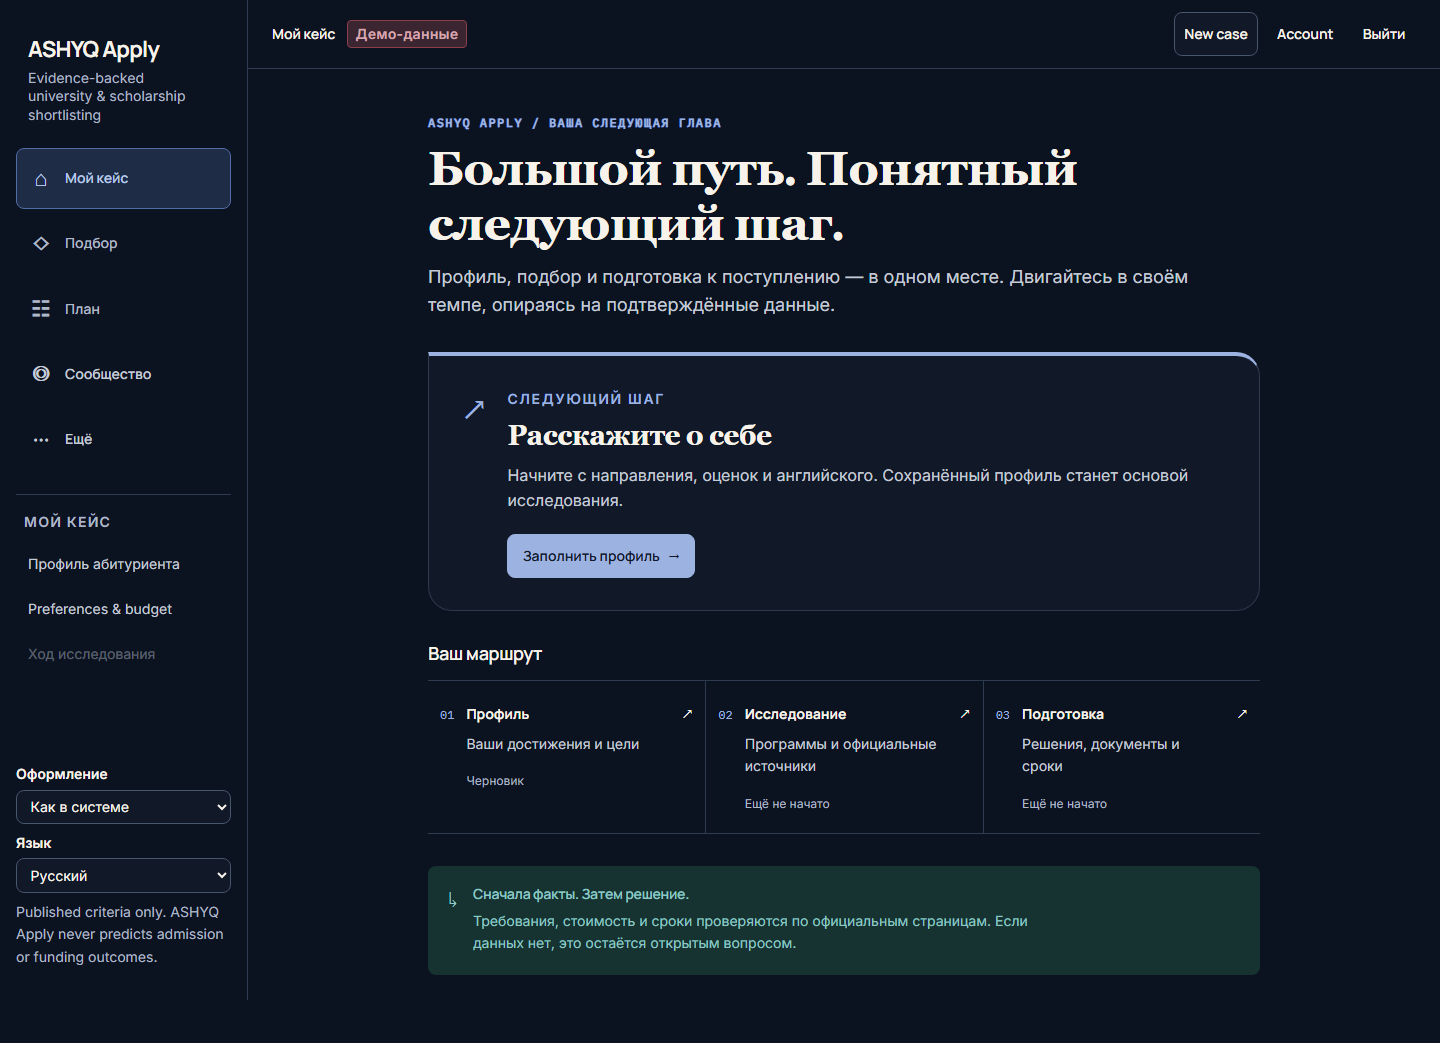
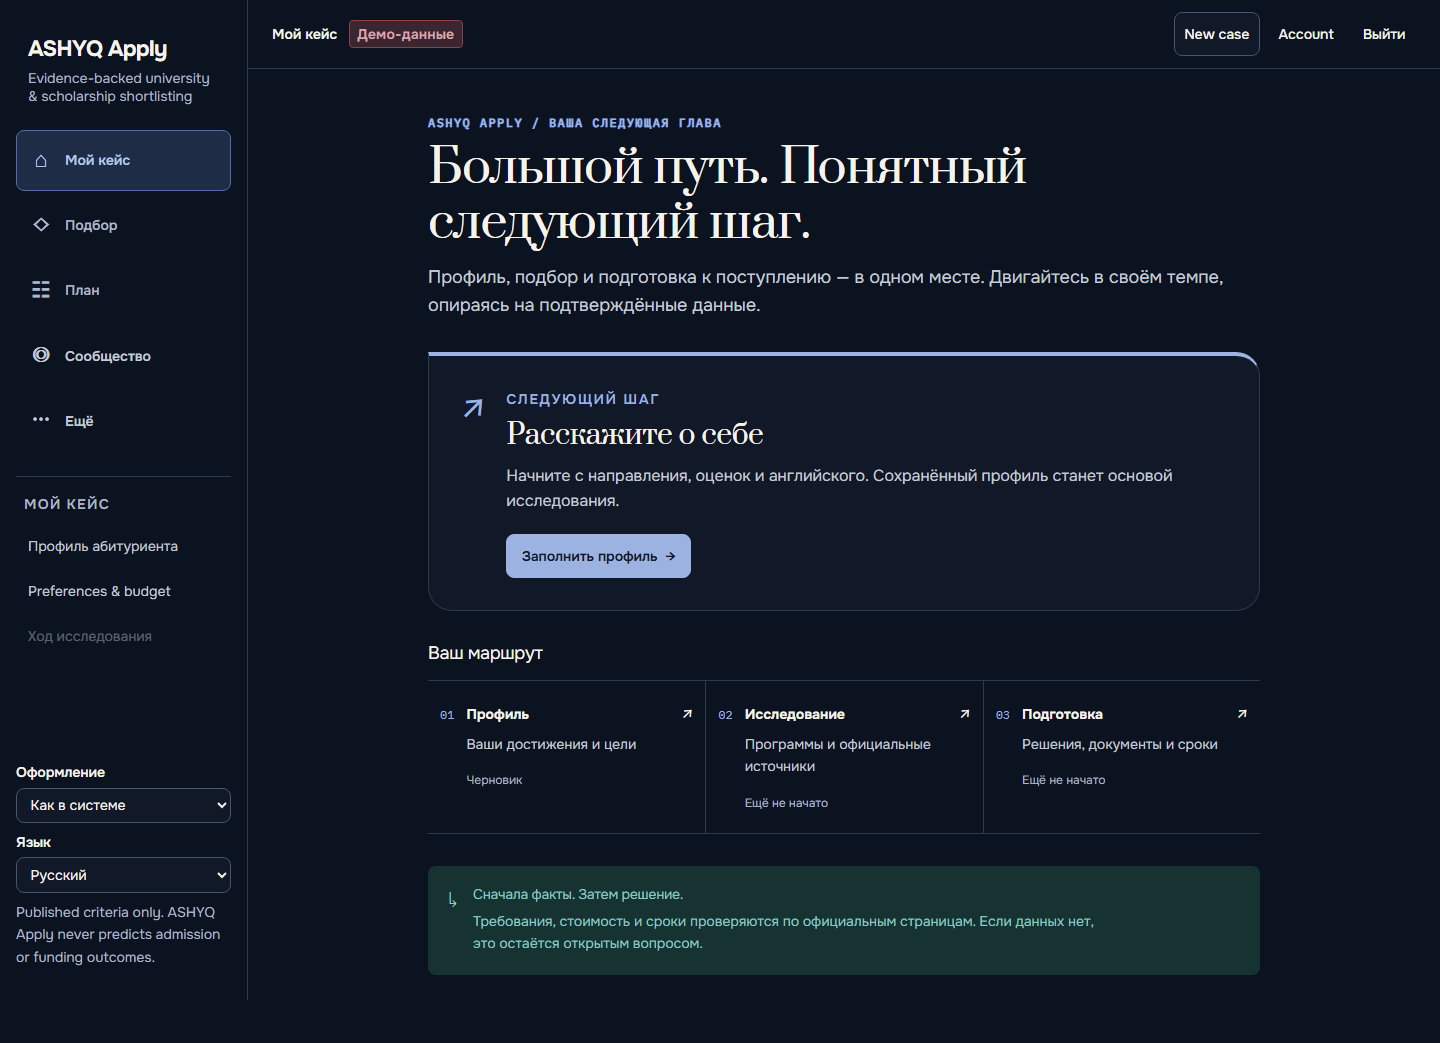
wip: use owner-selected Prata Onest and IBM Plex Mono [E00]; KZT baseline remains red
Self-host exact requested fonts, Prata native 400 weight; token reference and design context updated. Typecheck, lint, 195 unit tests, 4 browser checks and build pass. npm production audit clean; existing Vitest dev dependency has two moderate advisories, no forced major upgrade.

Agent: gpt-6-astra

diff --git a/frontend/src/design-system/DesignSystem.tsx b/frontend/src/design-system/DesignSystem.tsx
@@ -180,13 +180,13 @@ export function DesignSystem() {
               <article className="ds-specimen ds-type">
                 <p className="ds-card-label">Typography</p>
                 <p className="ds-type__display">Твой путь открыт</p>
-                <p className="ds-type__brand">Manrope — бренд и действия</p>
-                <p className="ds-type__body">Inter сохраняет ясность в длинных объяснениях, формах и инструкциях.</p>
+                <p className="ds-type__brand">Onest — бренд и действия</p>
+                <p className="ds-type__body">Onest сохраняет ясность в длинных объяснениях, формах и инструкциях.</p>
                 <p className="ds-type__mono">₸ 1 850 000 · 15 ЯНВ 2027</p>
                 <dl className="ds-token-list">
-                  <div><dt>Display</dt><dd>Fraunces 48/55</dd></div>
-                  <div><dt>Action</dt><dd>Manrope 16/24</dd></div>
-                  <div><dt>Body</dt><dd>Inter 16/26</dd></div>
+                  <div><dt>Display</dt><dd>Prata 48/55</dd></div>
+                  <div><dt>Action</dt><dd>Onest 16/24</dd></div>
+                  <div><dt>Body</dt><dd>Onest 16/26</dd></div>
                   <div><dt>Evidence</dt><dd>IBM Plex Mono 14/20</dd></div>
                 </dl>
               </article>

diff --git a/frontend/src/styles/tokens.css b/frontend/src/styles/tokens.css
@@ -63,9 +63,10 @@
   --ds-color-inherit: inherit;
 
   /* Layer 1: upstream typography primitives */
-  --ds-font-family-brand: 'Manrope', 'Inter', system-ui, sans-serif;
-  --ds-font-family-display: 'Fraunces', 'Iowan Old Style', Georgia, serif;
-  --ds-font-family-ui: 'Inter', system-ui, -apple-system, 'Segoe UI', sans-serif;
+  --ds-font-family-brand: 'Onest', system-ui, sans-serif;
+  --ds-font-family-display: 'Prata', Georgia, serif;
+  --ds-font-weight-display: 400;
+  --ds-font-family-ui: 'Onest', system-ui, -apple-system, 'Segoe UI', sans-serif;
   --ds-font-family-mono: 'IBM Plex Mono', 'JetBrains Mono', ui-monospace, 'SF Mono', Menlo, monospace;
   --ds-font-size-2xs: 0.75rem;
   --ds-font-size-micro: 0.75rem;
@@ -265,8 +266,9 @@
   --color-inherit: var(--ds-color-inherit, inherit);
 
   /* Layer 2: project typography aliases */
-  --font-family-brand: var(--ds-font-family-brand, 'Manrope', system-ui, sans-serif);
-  --font-family-display: var(--ds-font-family-display, Georgia, serif);
+  --font-family-brand: var(--ds-font-family-brand, 'Onest', system-ui, sans-serif);
+  --font-family-display: var(--ds-font-family-display, 'Prata', Georgia, serif);
+  --font-weight-display: var(--ds-font-weight-display, 400);
   --font-family-ui: var(--ds-font-family-ui, system-ui, sans-serif);
   --font-family-mono: var(--ds-font-family-mono, ui-monospace, monospace);
   --font-size-2xs: var(--ds-font-size-2xs, 0.75rem);

diff --git a/frontend/src/main.tsx b/frontend/src/main.tsx
@@ -7,16 +7,11 @@ import { ErrorBoundary } from '@/components/ErrorBoundary';
 // Self-hosted. The production CSP is style-src 'self', so the Google Fonts
 // stylesheet was blocked in the very environment it was meant to serve, and in
 // development it leaked every visitor to a third party.
-import '@fontsource/inter/400.css';
-import '@fontsource/inter/500.css';
-import '@fontsource/inter/600.css';
-import '@fontsource/inter/700.css';
-import '@fontsource/manrope/600.css';
-import '@fontsource/manrope/700.css';
-import '@fontsource/manrope/800.css';
-import '@fontsource/fraunces/400.css';
-import '@fontsource/fraunces/600.css';
-import '@fontsource/fraunces/700.css';
+import '@fontsource/onest/400.css';
+import '@fontsource/onest/500.css';
+import '@fontsource/onest/600.css';
+import '@fontsource/onest/700.css';
+import '@fontsource/prata/400.css';
 import '@fontsource/ibm-plex-mono/400.css';
 import '@fontsource/ibm-plex-mono/500.css';
 import './styles/global.css';

diff --git a/frontend/src/design-system/main.tsx b/frontend/src/design-system/main.tsx
@@ -1,15 +1,10 @@
 import { StrictMode } from 'react';
 import { createRoot } from 'react-dom/client';
-import '@fontsource/inter/400.css';
-import '@fontsource/inter/500.css';
-import '@fontsource/inter/600.css';
-import '@fontsource/inter/700.css';
-import '@fontsource/manrope/600.css';
-import '@fontsource/manrope/700.css';
-import '@fontsource/manrope/800.css';
-import '@fontsource/fraunces/400.css';
-import '@fontsource/fraunces/600.css';
-import '@fontsource/fraunces/700.css';
+import '@fontsource/onest/400.css';
+import '@fontsource/onest/500.css';
+import '@fontsource/onest/600.css';
+import '@fontsource/onest/700.css';
+import '@fontsource/prata/400.css';
 import '@fontsource/ibm-plex-mono/400.css';
 import '@fontsource/ibm-plex-mono/500.css';
 import '@/styles/global.css';

diff --git a/frontend/e2e/redesign.spec.ts b/frontend/e2e/redesign.spec.ts
@@ -23,6 +23,10 @@ for (const theme of ['light', 'dark'] as const) {
     await page.goto('/');
     await expect(page).toHaveURL(/#\/case$/);
     await expect(page.getByRole('heading', { level: 1 })).toContainText('Большой путь');
+    await page.evaluate(() => document.fonts.ready);
+    await expect(page.getByRole('heading', { level: 1 })).toHaveCSS('font-family', /Prata/);
+    await expect(page.getByRole('heading', { level: 1 })).toHaveCSS('font-weight', '400');
+    await expect(page.locator('body')).toHaveCSS('font-family', /Onest/);
     await expect(page.getByTestId('section-shortlist')).toBeDisabled();
     await expect(page.getByTestId('section-plan')).toBeDisabled();
     await expect(page.locator('#case-switcher')).toHaveCount(0);

diff --git a/frontend/src/styles/global.css b/frontend/src/styles/global.css
@@ -28,7 +28,7 @@ body {
 
 h1, h2, h3, h4 {
   font-family: var(--font-family-display);
-  font-weight: var(--font-weight-semibold);
+  font-weight: var(--font-weight-display);
   line-height: var(--line-height-tight);
   letter-spacing: var(--letter-spacing-tight);
   margin: var(--space-0);

diff --git a/specs/tokens/token-reference.md b/specs/tokens/token-reference.md
@@ -54,9 +54,10 @@
 | `--ds-color-on-accent` | `#ffffff` | `var(--ds-color-brand-ink)` | Upstream primitive. Define or theme at the design-system boundary; never reference directly from component CSS. |
 | `--ds-color-transparent` | `transparent` | — | Upstream primitive. Define or theme at the design-system boundary; never reference directly from component CSS. |
 | `--ds-color-inherit` | `inherit` | — | Upstream primitive. Define or theme at the design-system boundary; never reference directly from component CSS. |
-| `--ds-font-family-brand` | `'Manrope', 'Inter', system-ui, sans-serif` | — | Upstream primitive. Define or theme at the design-system boundary; never reference directly from component CSS. |
-| `--ds-font-family-display` | `'Fraunces', 'Iowan Old Style', Georgia, serif` | — | Upstream primitive. Define or theme at the design-system boundary; never reference directly from component CSS. |
-| `--ds-font-family-ui` | `'Inter', system-ui, -apple-system, 'Segoe UI', sans-serif` | — | Upstream primitive. Define or theme at the design-system boundary; never reference directly from component CSS. |
+| `--ds-font-family-brand` | `'Onest', system-ui, sans-serif` | — | Upstream primitive. Define or theme at the design-system boundary; never reference directly from component CSS. |
+| `--ds-font-family-display` | `'Prata', Georgia, serif` | — | Upstream primitive. Define or theme at the design-system boundary; never reference directly from component CSS. |
+| `--ds-font-weight-display` | `400` | — | Upstream primitive. Define or theme at the design-system boundary; never reference directly from component CSS. |
+| `--ds-font-family-ui` | `'Onest', system-ui, -apple-system, 'Segoe UI', sans-serif` | — | Upstream primitive. Define or theme at the design-system boundary; never reference directly from component CSS. |
 | `--ds-font-family-mono` | `'IBM Plex Mono', 'JetBrains Mono', ui-monospace, 'SF Mono', Menlo, monospace` | — | Upstream primitive. Define or theme at the design-system boundary; never reference directly from component CSS. |
 | `--ds-font-size-2xs` | `0.75rem` | — | Upstream primitive. Define or theme at the design-system boundary; never reference directly from component CSS. |
 | `--ds-font-size-micro` | `0.75rem` | — | Upstream primitive. Define or theme at the design-system boundary; never reference directly from component CSS. |
@@ -249,8 +250,9 @@
 | `--color-on-interactive` | `var(--ds-color-on-accent, #ffffff)` | Use this project-semantic alias by meaning; never reach through to a `--ds-*` primitive from component CSS. |
 | `--color-transparent` | `var(--ds-color-transparent, transparent)` | Use this project-semantic alias by meaning; never reach through to a `--ds-*` primitive from component CSS. |
 | `--color-inherit` | `var(--ds-color-inherit, inherit)` | Use this project-semantic alias by meaning; never reach through to a `--ds-*` primitive from component CSS. |
-| `--font-family-brand` | `var(--ds-font-family-brand, 'Manrope', system-ui, sans-serif)` | Use this project-semantic alias by meaning; never reach through to a `--ds-*` primitive from component CSS. |
-| `--font-family-display` | `var(--ds-font-family-display, Georgia, serif)` | Use this project-semantic alias by meaning; never reach through to a `--ds-*` primitive from component CSS. |
+| `--font-family-brand` | `var(--ds-font-family-brand, 'Onest', system-ui, sans-serif)` | Use this project-semantic alias by meaning; never reach through to a `--ds-*` primitive from component CSS. |
+| `--font-family-display` | `var(--ds-font-family-display, 'Prata', Georgia, serif)` | Use this project-semantic alias by meaning; never reach through to a `--ds-*` primitive from component CSS. |
+| `--font-weight-display` | `var(--ds-font-weight-display, 400)` | Use this project-semantic alias by meaning; never reach through to a `--ds-*` primitive from component CSS. |
 | `--font-family-ui` | `var(--ds-font-family-ui, system-ui, sans-serif)` | Use this project-semantic alias by meaning; never reach through to a `--ds-*` primitive from component CSS. |
 | `--font-family-mono` | `var(--ds-font-family-mono, ui-monospace, monospace)` | Use this project-semantic alias by meaning; never reach through to a `--ds-*` primitive from component CSS. |
 | `--font-size-2xs` | `var(--ds-font-size-2xs, 0.75rem)` | Use this project-semantic alias by meaning; never reach through to a `--ds-*` primitive from component CSS. |

diff --git a/specs/foundations/typography.md b/specs/foundations/typography.md
@@ -2,9 +2,9 @@
 
 ## Families
 
-- `--font-family-brand`: Manrope for the wordmark, controls, navigation, and short product headings.
-- `--font-family-display`: Fraunces for editorial page titles and narrative section openings only.
-- `--font-family-ui`: Inter/system UI for controls and body copy.
+- `--font-family-brand`: Onest for the wordmark, controls, navigation, and short product headings.
+- `--font-family-display`: Prata for editorial page titles and narrative section openings only.
+- `--font-family-ui`: Onest/system UI for controls and body copy.
 - `--font-family-mono`: IBM Plex Mono/system monospace for sources, identifiers, timestamps, and numeric evidence.
 
 ## Scale and hierarchy
@@ -17,7 +17,7 @@ Weights are limited to `--font-weight-medium`, `--font-weight-semibold`, and `--
 
 - Component CSS uses `--font-*`, `--line-height-*`, and `--letter-spacing-*` aliases only.
 - Display type provides structure; do not use it for long paragraphs or dense tables.
-- Brand type and display type are deliberately separate: Manrope keeps actions modern and direct, while Fraunces preserves the editorial strength required by E00.
+- Owner's explicit font selection (2026-09-09) overrides the brandbook: Prata display headings, Onest brand/actions/body, IBM Plex Mono evidence. Prata is loaded at its native 400 weight; use `--font-weight-display` to avoid synthetic bold.
 - Monospace indicates machine-originated or source-like content, not emphasis.
 - Keep responsive heading behavior inside the upstream fluid size primitives.
 - Test every loaded weight with Kazakh letters `Ә Ғ Қ Ң Ө Ұ Ү Һ І` before release.

diff --git a/specs/design-system.md b/specs/design-system.md
@@ -76,9 +76,9 @@ Exact swatch и цвет текста — разные задачи. Scholar Tea
 
 | Регистр | Семейство | Применение |
 |---|---|---|
-| Brand / action | Manrope 600–800 | wordmark, кнопки, navigation, короткие продуктовые заголовки |
-| Editorial display | Fraunces 400–700 | H1, начало раздела, большая «новая глава»; не формы и не таблицы |
-| UI / body | Inter 400–700 | основной интерфейс, инструкции, формы, legal |
+| Brand / action | Onest 600–800 | wordmark, кнопки, navigation, короткие продуктовые заголовки |
+| Editorial display | Prata 400 | H1, начало раздела, большая «новая глава»; не формы и не таблицы |
+| UI / body | Onest 400–700 | основной интерфейс, инструкции, формы, legal |
 | Evidence / data | IBM Plex Mono 400–500 | суммы, даты, требования, идентификаторы, freshness, источники |
 
 Шкала: `12 / 14 / 16 / 18 / 22 / 28 / 36 / 48`. Базовый текст — 16 px, таблица — не ниже 14 px. Для казахского обязательна проверка `Ә Ғ Қ Ң Ө Ұ Ү Һ І` во всех используемых начертаниях.

diff --git a/frontend/.21st/DESIGN.md b/frontend/.21st/DESIGN.md
@@ -13,7 +13,7 @@ This project uses a calm editorial system for evidence-backed admissions decisio
 ## Visual decisions
 
 - Exact brand primitives: Ink `#111827`, Paper `#F7F3EA`, Academic Blue `#526DA6`, Library Burgundy `#8E3F4C`, Scholar Teal `#437A78`, Parchment Gold `#C5A66B`, Deadline Coral `#E47A6A`.
-- Manrope is the geometric brand/action face. Fraunces is restricted to editorial page titles and narrative moments. Inter carries UI/body copy. IBM Plex Mono carries evidence, sums, dates, scores, identifiers, and freshness.
+- Owner-confirmed typography (2026-09-09, overrides brandbook): Prata 400 for display headings; Onest for brand/actions/UI/body; IBM Plex Mono for evidence, sums, dates, scores, identifiers and freshness.
 - Product radius scale is 4 / 8 / 12 px. The 24 px radius is reserved for large editorial page/image containers.
 - Product motion stays at or below 200 ms and has a reduced-motion path. Continuous spinner cycles are the only longer repeating motion.
 - Light and dark themes preserve the same meanings. Exact accent swatches are not used for small text when they miss 4.5:1; accessible semantic derivatives are used instead.

diff --git a/docs/process/HANDOFF.md b/docs/process/HANDOFF.md
@@ -233,8 +233,9 @@ No branch, commit, push or stash has been performed by this writer.
 
 ## 5. NEXT STEP — exact and executable
 
-Current owner instruction: restore the proposed brandbook typography (Manrope headings, Inter text,
-IBM Plex Mono evidence; remove Fraunces), synchronize tokens/catalogue/specs and continue E02.
+Current owner clarification supersedes the brandbook typography: Prata headings, Onest UI/body,
+IBM Plex Mono evidence. The prior Manrope/Inter assumption was incorrect; synchronize tokens,
+catalogue/specs, verify and push this exact font set, then continue E02.
 Implement six-step profile navigation using existing validated form panels, preserving transcript and
 conversion flows, draft storage and explicit server save. Add wizard tests and browser/font checks.
 This bounded E02 slice does not silently add server autosave or new test-planning API contracts.
